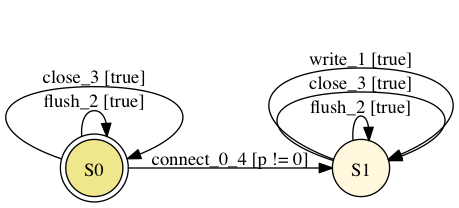
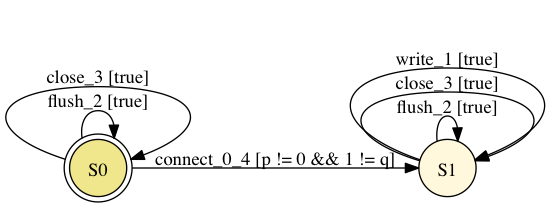
Fixed a problem with PipedOutputStream.

Changed region(s): [[0.0, 0.2308, 1.0, 0.9808], [0.3965, 0.5481, 0.427, 0.5769]]

diff --git a/src/examples/psyco/java/io/PipedOutputStream.java b/src/examples/psyco/java/io/PipedOutputStream.java
@@ -99,10 +99,10 @@ public class PipedOutputStream {
 //    snk.out = 0;
 //    snk.connected = true;
 //  }
-  public static synchronized void connect(int snk) {
+  public static synchronized void connect(int snk, int snkConnected) {
     if (snk == 0) {
       assert false;
-    } else if (sink != 0 || sinkConnected == 1) {
+    } else if (sink != 0 || snkConnected == 1) {
       assert false;
     }
     sink = snk;
